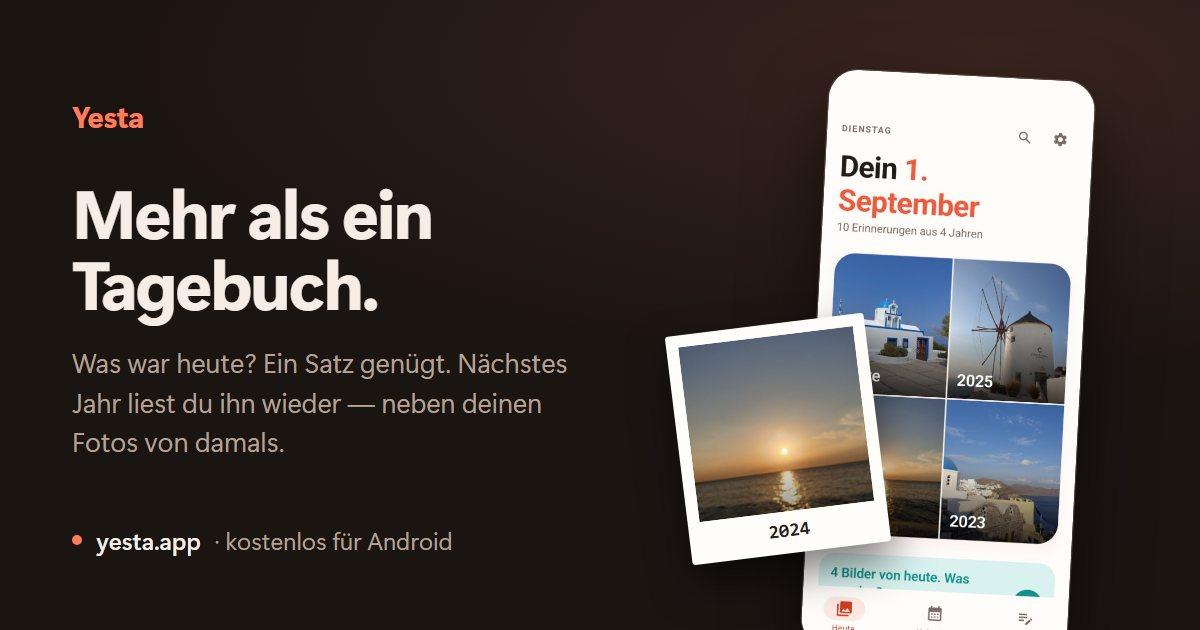
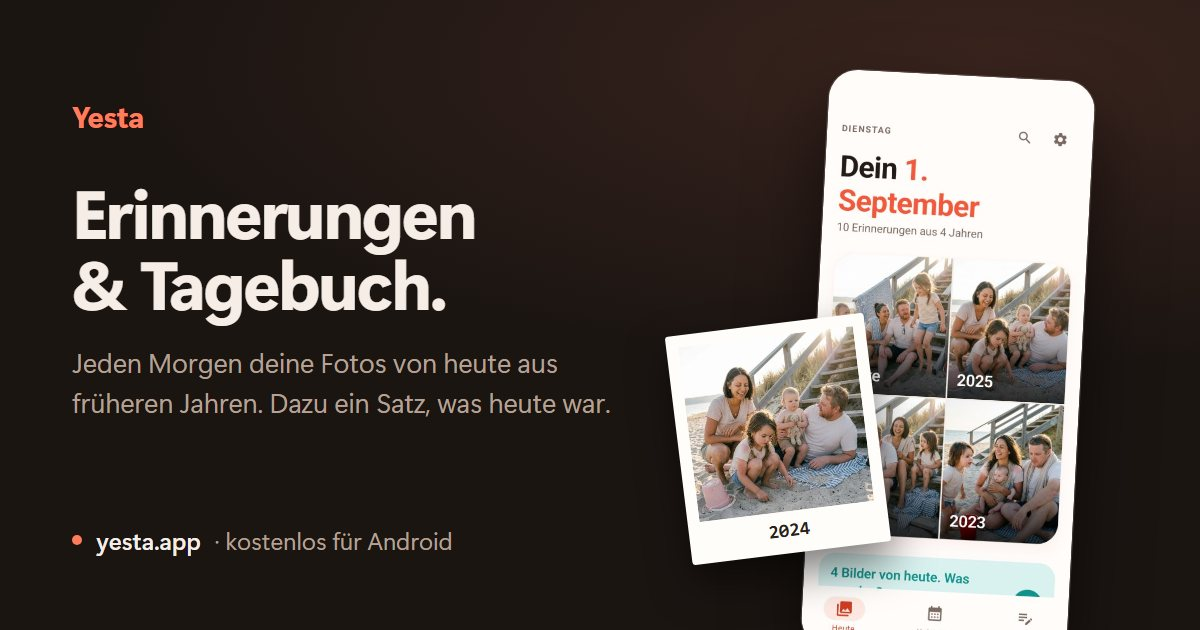
Neuer Name: Erinnerungen & Tagebuch (DE/EN/ES), Vorschaubilder

diff --git a/en/index.html b/en/index.html
@@ -6,15 +6,15 @@
 <link rel="icon" href="/favicon.ico" sizes="16x16 32x32 48x48">
 <link rel="icon" href="/favicon.svg" type="image/svg+xml">
 <link rel="apple-touch-icon" href="/apple-touch-icon.png">
-<title>Yesta — more than a diary</title>
+<title>Yesta – Memories &amp; Journal</title>
 <meta name="description" content="Yesta shows you every day what you lived through on the same date in earlier years, and asks one question: what happened today? Everything stays on your phone.">
 <link rel="canonical" href="https://yesta.app/en/">
 <link rel="alternate" hreflang="de" href="https://yesta.app/">
 <link rel="alternate" hreflang="en" href="https://yesta.app/en/">
 <link rel="alternate" hreflang="es" href="https://yesta.app/es/">
 <link rel="alternate" hreflang="x-default" href="https://yesta.app/">
-<meta property="og:title" content="Yesta — more than a diary">
-<meta property="og:description" content="What happened today? One sentence is enough. Next year you'll read it again.">
+<meta property="og:title" content="Yesta – Memories &amp; Journal">
+<meta property="og:description" content="Every morning, your photos from this day in past years. No account, no cloud.">
 <meta property="og:type" content="website">
 <meta property="og:site_name" content="Yesta">
 <meta property="og:locale" content="en_US">
@@ -24,7 +24,7 @@
 <meta property="og:image" content="https://yesta.app/en/bilder/vorschau.jpg">
 <meta property="og:image:width" content="1200">
 <meta property="og:image:height" content="630">
-<meta property="og:image:alt" content="Yesta — more than a diary. A phone shows the 1st of September with four photos from earlier years, an instant photo from 2024 in front of it.">
+<meta property="og:image:alt" content="Yesta – Memories &amp; Journal. A phone shows the 1st of September with four photos from earlier years, an instant photo from 2024 in front of it.">
 <meta name="twitter:card" content="summary_large_image">
 <style>
   :root {

diff --git a/index.html b/index.html
@@ -6,15 +6,15 @@
 <link rel="icon" href="/favicon.ico" sizes="16x16 32x32 48x48">
 <link rel="icon" href="/favicon.svg" type="image/svg+xml">
 <link rel="apple-touch-icon" href="/apple-touch-icon.png">
-<title>Yesta — mehr als ein Tagebuch</title>
+<title>Yesta – Erinnerungen &amp; Tagebuch</title>
 <meta name="description" content="Yesta zeigt dir jeden Tag, was du am selben Datum in früheren Jahren erlebt hast, und stellt eine Frage: Was war heute? Alles bleibt auf deinem Handy.">
 <link rel="canonical" href="https://yesta.app/">
 <link rel="alternate" hreflang="de" href="https://yesta.app/">
 <link rel="alternate" hreflang="en" href="https://yesta.app/en/">
 <link rel="alternate" hreflang="es" href="https://yesta.app/es/">
 <link rel="alternate" hreflang="x-default" href="https://yesta.app/">
-<meta property="og:title" content="Yesta — mehr als ein Tagebuch">
-<meta property="og:description" content="Was war heute? Ein Satz genügt. Nächstes Jahr liest du ihn wieder.">
+<meta property="og:title" content="Yesta – Erinnerungen &amp; Tagebuch">
+<meta property="og:description" content="Jeden Morgen deine Fotos von heute aus früheren Jahren. Ohne Konto, ohne Cloud.">
 <meta property="og:type" content="website">
 <meta property="og:site_name" content="Yesta">
 <meta property="og:locale" content="de_DE">
@@ -24,7 +24,7 @@
 <meta property="og:image" content="https://yesta.app/bilder/vorschau.jpg">
 <meta property="og:image:width" content="1200">
 <meta property="og:image:height" content="630">
-<meta property="og:image:alt" content="Yesta — mehr als ein Tagebuch. Ein Handy zeigt den 1. September mit vier Fotos aus früheren Jahren, davor ein Sofortbild von 2024.">
+<meta property="og:image:alt" content="Yesta – Erinnerungen &amp; Tagebuch. Ein Handy zeigt den 1. September mit vier Fotos aus früheren Jahren, davor ein Sofortbild von 2024.">
 <meta name="twitter:card" content="summary_large_image">
 <style>
   :root {

diff --git a/es/index.html b/es/index.html
@@ -6,15 +6,15 @@
 <link rel="icon" href="/favicon.ico" sizes="16x16 32x32 48x48">
 <link rel="icon" href="/favicon.svg" type="image/svg+xml">
 <link rel="apple-touch-icon" href="/apple-touch-icon.png">
-<title>Yesta — más que un diario</title>
+<title>Yesta – Recuerdos y diario</title>
 <meta name="description" content="Yesta te enseña cada mañana esta misma fecha de todos los años anteriores y te hace una pregunta: ¿Qué pasó hoy? Todo se queda en tu dispositivo.">
 <link rel="canonical" href="https://yesta.app/es/">
 <link rel="alternate" hreflang="de" href="https://yesta.app/">
 <link rel="alternate" hreflang="en" href="https://yesta.app/en/">
 <link rel="alternate" hreflang="es" href="https://yesta.app/es/">
 <link rel="alternate" hreflang="x-default" href="https://yesta.app/">
-<meta property="og:title" content="Yesta — más que un diario">
-<meta property="og:description" content="¿Qué pasó hoy? Basta una frase. El año que viene volverás a leerla.">
+<meta property="og:title" content="Yesta – Recuerdos y diario">
+<meta property="og:description" content="Cada mañana, tus fotos de este día en años anteriores. Sin cuenta, sin nube.">
 <meta property="og:type" content="website">
 <meta property="og:site_name" content="Yesta">
 <meta property="og:locale" content="es_ES">
@@ -24,7 +24,7 @@
 <meta property="og:image" content="https://yesta.app/es/bilder/vorschau.jpg">
 <meta property="og:image:width" content="1200">
 <meta property="og:image:height" content="630">
-<meta property="og:image:alt" content="Yesta — más que un diario. Un teléfono muestra el 1 de septiembre con cuatro fotos de años anteriores y, delante, una polaroid de 2024.">
+<meta property="og:image:alt" content="Yesta – Recuerdos y diario. Un teléfono muestra el 1 de septiembre con cuatro fotos de años anteriores y, delante, una polaroid de 2024.">
 <meta name="twitter:card" content="summary_large_image">
 <style>
   :root {

diff --git a/fb/index.html b/fb/index.html
@@ -9,8 +9,8 @@
 <title>Yesta — kostenlos für Android</title>
 <meta name="robots" content="noindex">
 <meta name="description" content="Yesta: dein Tag aus allen Jahren. Kostenlos für Android, ohne Konto, ohne Cloud.">
-<meta property="og:title" content="Yesta — mehr als ein Tagebuch">
-<meta property="og:description" content="Was war heute? Ein Satz genügt. Nächstes Jahr liest du ihn wieder.">
+<meta property="og:title" content="Yesta – Erinnerungen &amp; Tagebuch">
+<meta property="og:description" content="Jeden Morgen deine Fotos von heute aus früheren Jahren. Ohne Konto, ohne Cloud.">
 <meta property="og:type" content="website">
 <meta property="og:site_name" content="Yesta">
 <meta property="og:locale" content="de_DE">

diff --git a/ig/index.html b/ig/index.html
@@ -9,8 +9,8 @@
 <title>Yesta — kostenlos für Android</title>
 <meta name="robots" content="noindex">
 <meta name="description" content="Yesta: dein Tag aus allen Jahren. Kostenlos für Android, ohne Konto, ohne Cloud.">
-<meta property="og:title" content="Yesta — mehr als ein Tagebuch">
-<meta property="og:description" content="Was war heute? Ein Satz genügt. Nächstes Jahr liest du ihn wieder.">
+<meta property="og:title" content="Yesta – Erinnerungen &amp; Tagebuch">
+<meta property="og:description" content="Jeden Morgen deine Fotos von heute aus früheren Jahren. Ohne Konto, ohne Cloud.">
 <meta property="og:type" content="website">
 <meta property="og:site_name" content="Yesta">
 <meta property="og:locale" content="de_DE">

diff --git a/qr/index.html b/qr/index.html
@@ -9,8 +9,8 @@
 <title>Yesta — kostenlos für Android</title>
 <meta name="robots" content="noindex">
 <meta name="description" content="Yesta: dein Tag aus allen Jahren. Kostenlos für Android, ohne Konto, ohne Cloud.">
-<meta property="og:title" content="Yesta — mehr als ein Tagebuch">
-<meta property="og:description" content="Was war heute? Ein Satz genügt. Nächstes Jahr liest du ihn wieder.">
+<meta property="og:title" content="Yesta – Erinnerungen &amp; Tagebuch">
+<meta property="og:description" content="Jeden Morgen deine Fotos von heute aus früheren Jahren. Ohne Konto, ohne Cloud.">
 <meta property="og:type" content="website">
 <meta property="og:site_name" content="Yesta">
 <meta property="og:locale" content="de_DE">

diff --git a/tt/index.html b/tt/index.html
@@ -9,8 +9,8 @@
 <title>Yesta — kostenlos für Android</title>
 <meta name="robots" content="noindex">
 <meta name="description" content="Yesta: dein Tag aus allen Jahren. Kostenlos für Android, ohne Konto, ohne Cloud.">
-<meta property="og:title" content="Yesta — mehr als ein Tagebuch">
-<meta property="og:description" content="Was war heute? Ein Satz genügt. Nächstes Jahr liest du ihn wieder.">
+<meta property="og:title" content="Yesta – Erinnerungen &amp; Tagebuch">
+<meta property="og:description" content="Jeden Morgen deine Fotos von heute aus früheren Jahren. Ohne Konto, ohne Cloud.">
 <meta property="og:type" content="website">
 <meta property="og:site_name" content="Yesta">
 <meta property="og:locale" content="de_DE">

diff --git a/wa/index.html b/wa/index.html
@@ -9,8 +9,8 @@
 <title>Yesta — kostenlos für Android</title>
 <meta name="robots" content="noindex">
 <meta name="description" content="Yesta: dein Tag aus allen Jahren. Kostenlos für Android, ohne Konto, ohne Cloud.">
-<meta property="og:title" content="Yesta — mehr als ein Tagebuch">
-<meta property="og:description" content="Was war heute? Ein Satz genügt. Nächstes Jahr liest du ihn wieder.">
+<meta property="og:title" content="Yesta – Erinnerungen &amp; Tagebuch">
+<meta property="og:description" content="Jeden Morgen deine Fotos von heute aus früheren Jahren. Ohne Konto, ohne Cloud.">
 <meta property="og:type" content="website">
 <meta property="og:site_name" content="Yesta">
 <meta property="og:locale" content="de_DE">
